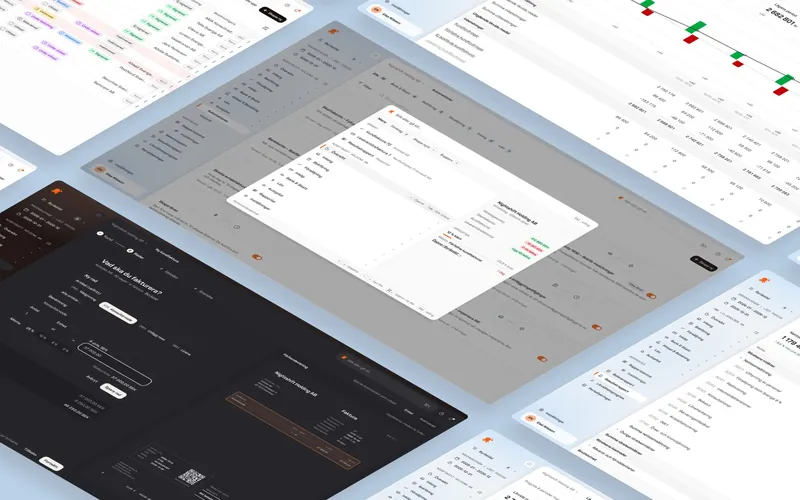
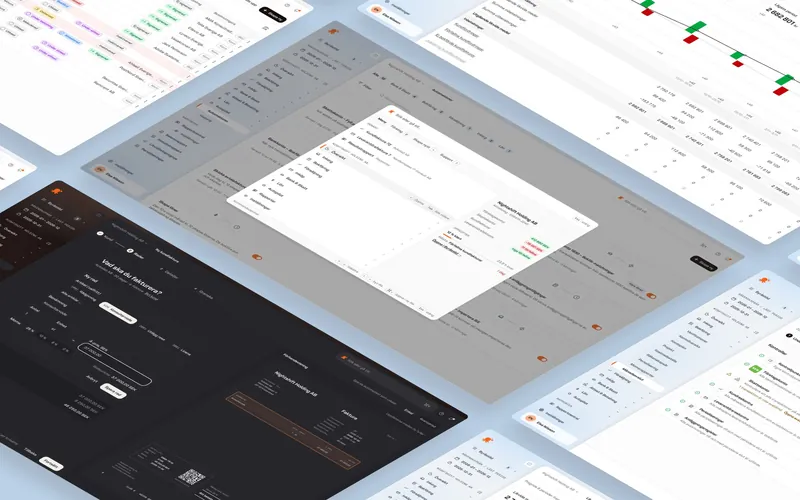
Oqto isometric image: month-end closing replaces the income statement
Claude-Session: https://claude.ai/code/session_01T8AAM769pNUjzneeyTgJVR

Changed region(s): [[0.7188, 0.66, 1.0, 0.93], [0.6875, 0.66, 0.875, 0.84]]

diff --git a/docs/oqto/index.html b/docs/oqto/index.html
@@ -113,7 +113,7 @@
 <p class="c-step-text">I redesigned a selection of screens chosen to cover as much of the product as possible, and reworked the flows that needed bigger changes. Below is one of them: building an automation in three steps – when, if and then.</p>
 </div>
 </div>
-<div data-px="1" data-rv="6" data-lb="1" tabindex="0" role="button" aria-label="Enlarge image" class="rv c-clip"><img class="zm px" src="../assets/oqto-screens-1400.webp?v=22856bf3" srcset="../assets/oqto-screens-800.webp?v=e30d79d4 800w, ../assets/oqto-screens-1400.webp?v=22856bf3 1400w, ../assets/oqto-screens.webp?v=b22d48cf 2400w" sizes="(min-width: 1440px) 1200px, 92vw" data-lbsrc="../assets/oqto-screens.webp?v=b22d48cf" loading="lazy" decoding="async" alt="Oqto screens in an isometric grid, including automations and a customer invoice in dark mode" width="2400" height="1500"></div>
+<div data-px="1" data-rv="6" data-lb="1" tabindex="0" role="button" aria-label="Enlarge image" class="rv c-clip"><img class="zm px" src="../assets/oqto-screens-1400.webp?v=df0c9d02" srcset="../assets/oqto-screens-800.webp?v=8f604210 800w, ../assets/oqto-screens-1400.webp?v=df0c9d02 1400w, ../assets/oqto-screens.webp?v=95bce654 2400w" sizes="(min-width: 1440px) 1200px, 92vw" data-lbsrc="../assets/oqto-screens.webp?v=95bce654" loading="lazy" decoding="async" alt="Oqto screens in an isometric grid, including the command palette, month-end closing and a customer invoice in dark mode" width="2400" height="1500"></div>
 <div data-rv="5" data-lb="1" tabindex="0" role="button" aria-label="Enlarge image" class="rv c-clip"><div class="zm an ap"><img src="../assets/oqto-autopilot-screen-1400.webp?v=68519617" srcset="../assets/oqto-autopilot-screen-800.webp?v=9b5673f3 800w, ../assets/oqto-autopilot-screen-1400.webp?v=68519617 1400w, ../assets/oqto-autopilot-screen.webp?v=a3b65554 2400w" sizes="(min-width: 1440px) 1200px, 92vw" loading="lazy" decoding="async" data-lbsrc="../assets/oqto-autopilot.webp?v=fb879221" alt="The automation editor in Oqto with a when, if and then flow, and the automation’s card on top" width="2400" height="1500">
 <div aria-hidden="true"><i class="fl f1"></i><i class="fl f2"></i><i class="fl f3"></i><i class="fl f4"></i><i class="fl f5"></i><i data-rv="8" class="ac rv c-e239d3"></i></div></div></div>
 </section>

diff --git a/site/pages/oqto.html b/site/pages/oqto.html
@@ -24,7 +24,7 @@
 
 <section [[SC]]>
 @STEP{03 The product|Key screens, rebuilt|I redesigned a selection of screens chosen to cover as much of the product as possible, and reworked the flows that needed bigger changes. Below is one of them: building an automation in three steps – when, if and then.}
-<div data-px="1" @RV{6}><img class="zm px" src="[[A]]oqto-screens.jpg" alt="Oqto screens in an isometric grid, including automations and a customer invoice in dark mode" width="2400" height="1500"></div>
+<div data-px="1" @RV{6}><img class="zm px" src="[[A]]oqto-screens.jpg" alt="Oqto screens in an isometric grid, including the command palette, month-end closing and a customer invoice in dark mode" width="2400" height="1500"></div>
 <div @RV{5}><div class="zm an ap"><img src="[[A]]oqto-autopilot-screen.jpg" data-lbsrc="[[A]]oqto-autopilot.jpg" alt="The automation editor in Oqto with a when, if and then flow, and the automation’s card on top" width="2400" height="1500">
 <div aria-hidden="true"><i class="fl f1"></i><i class="fl f2"></i><i class="fl f3"></i><i class="fl f4"></i><i class="fl f5"></i><i data-rv="8" class="ac rv" style="background-image: url([[A]]oqto-autopilot-card.webp)"></i></div></div></div>
 </section>
